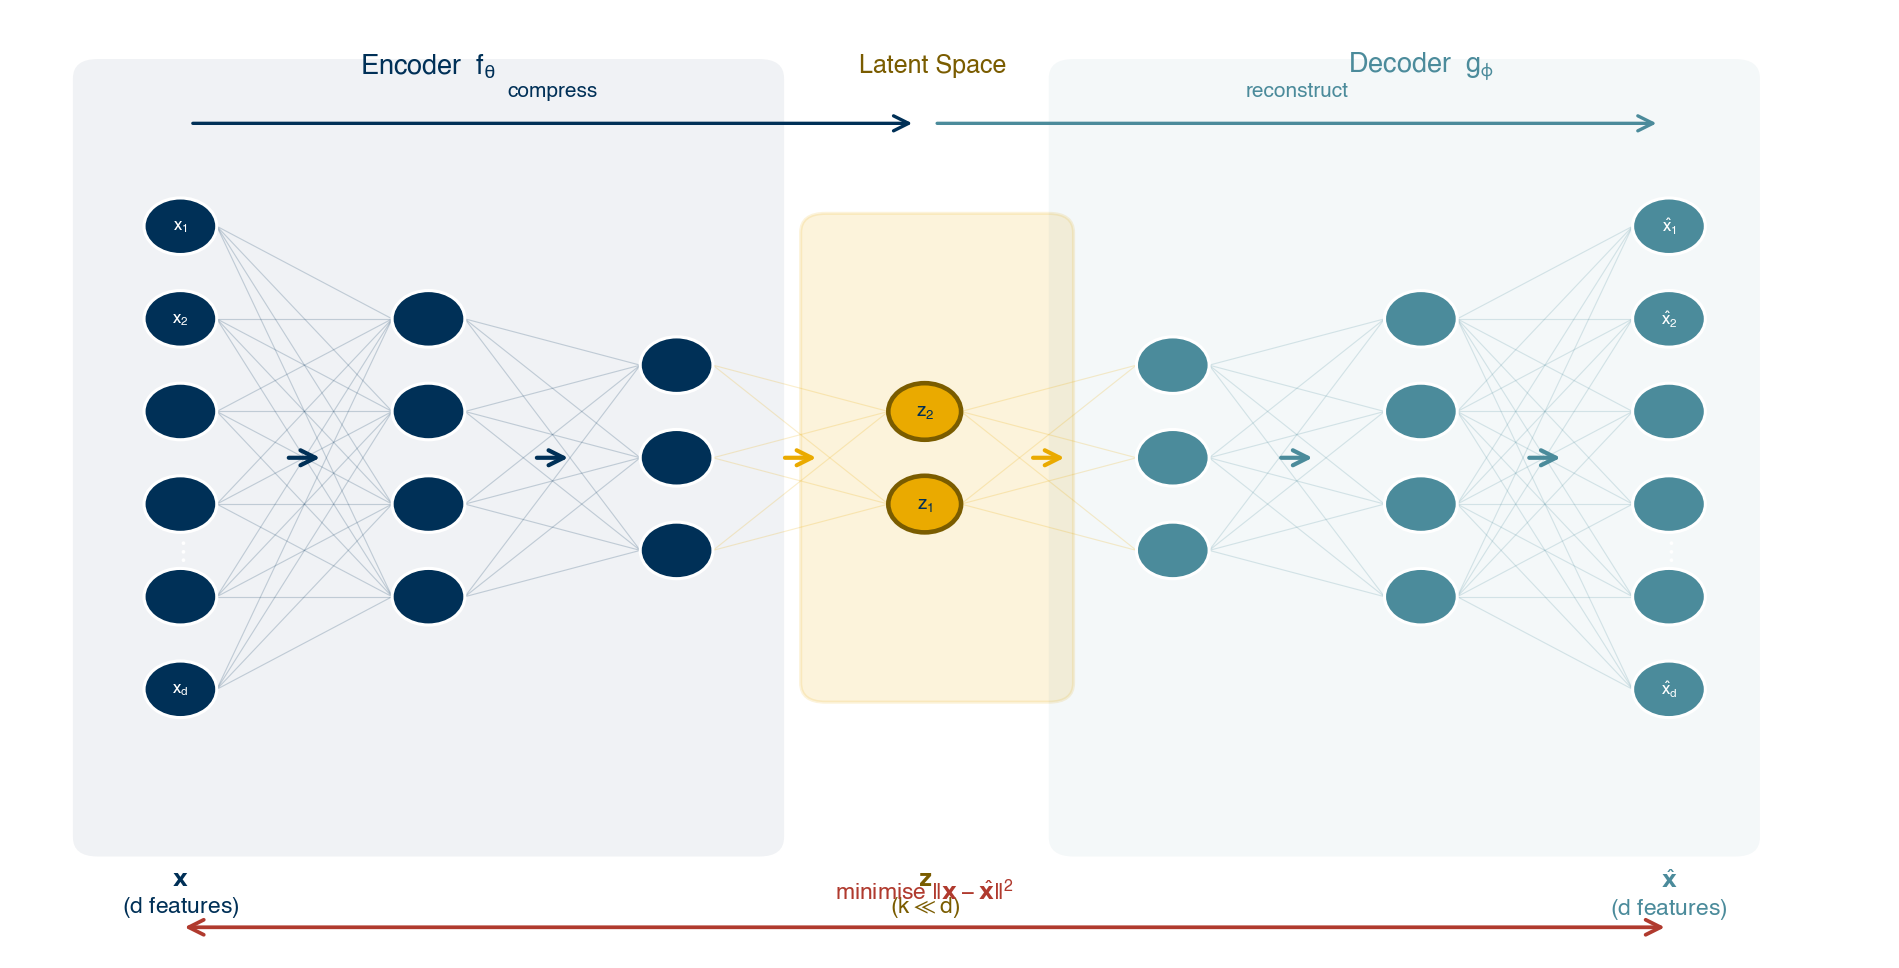
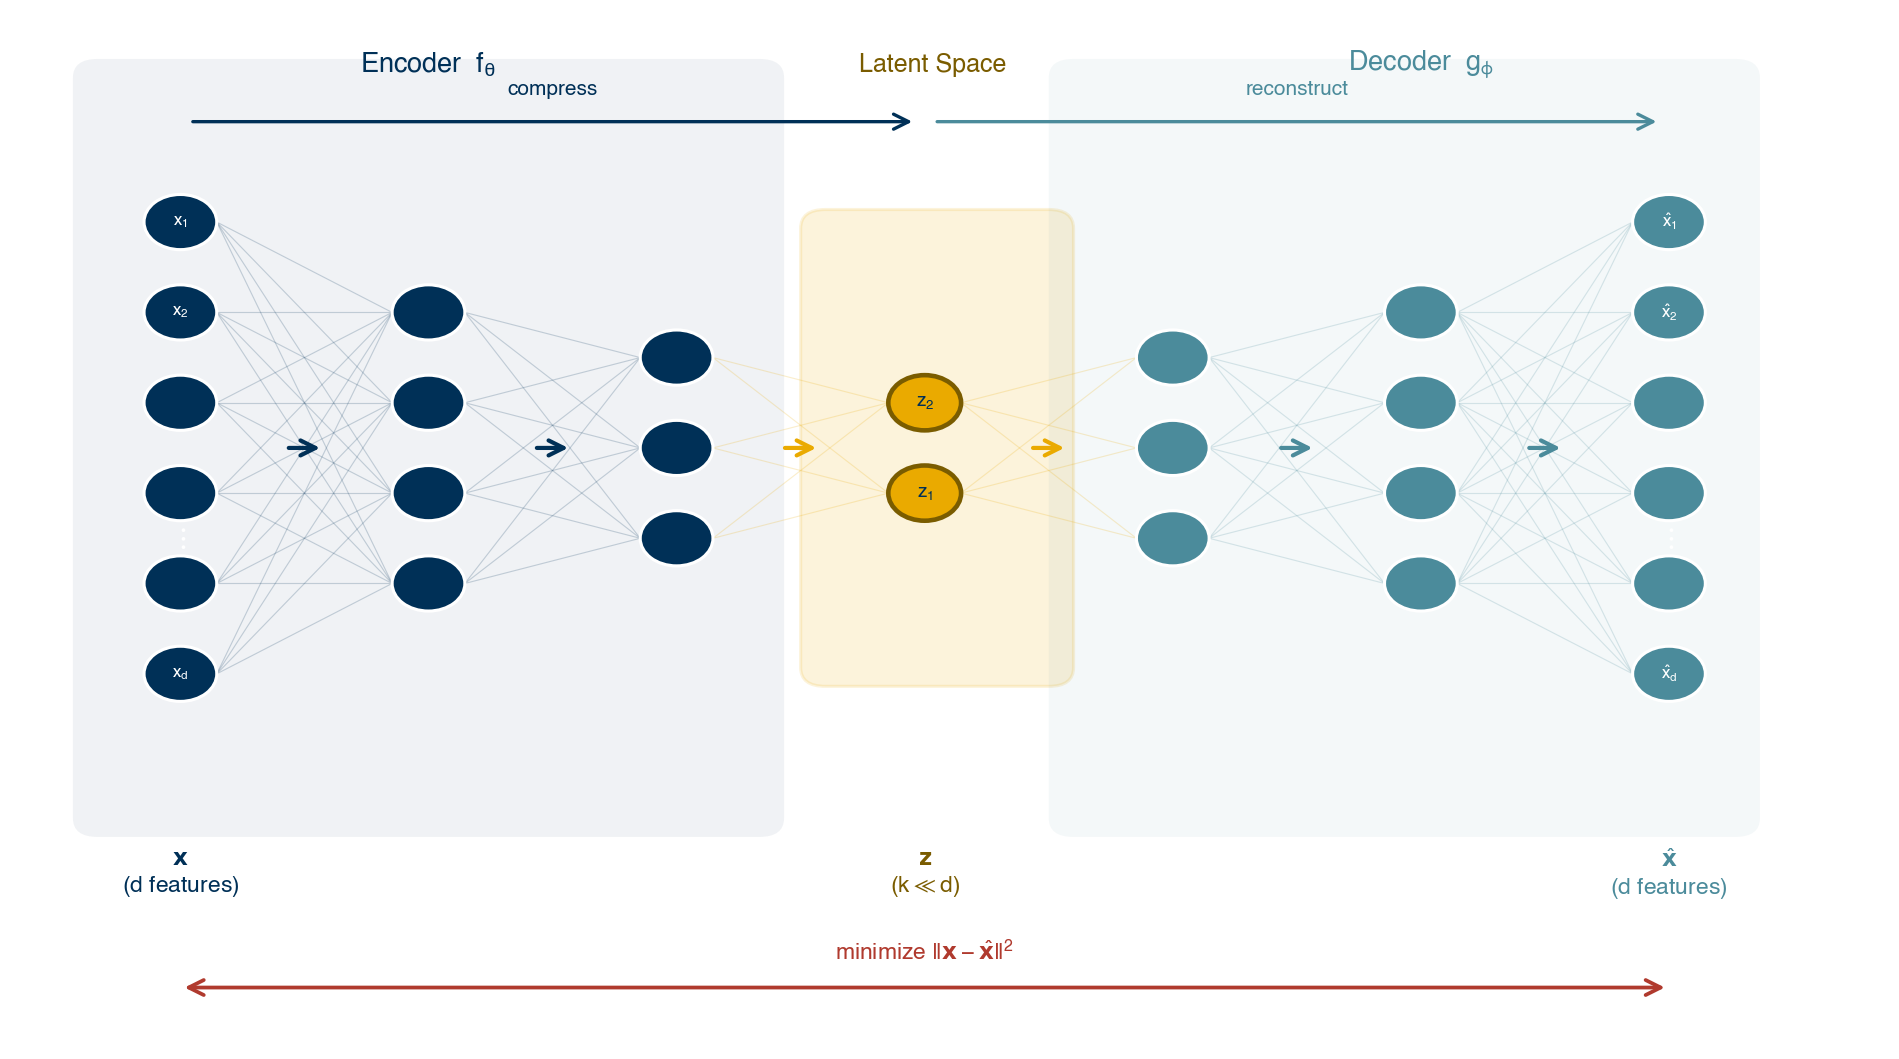
Fix autoencoder figure layout and add PyTorch autoencoder example
- Expanded canvas height and lowered error bracket so "minimize" text
  no longer overlaps the k<<d column label; fix British spelling
  ("minimise" → "minimize") in figure script
- Add three code cells to Topic5.2 autoencoder section: PyTorch model
  definition + training loop, 2-D latent space scatter, reconstruction
  visual; include a note on bottleneck width trade-off

diff --git a/settings/helper_scripts/plot_autoencoder.py b/settings/helper_scripts/plot_autoencoder.py
@@ -55,9 +55,9 @@ def layer_ys(n):
 all_ys = [layer_ys(n) for n in LAYER_SIZES]
 
 # ─── Canvas ───────────────────────────────────────────────────────────────────
-fig, ax = plt.subplots(figsize=(13, 6.8))
+fig, ax = plt.subplots(figsize=(13, 7.4))
 ax.set_xlim(-0.1, 11.2)
-ax.set_ylim(-0.1, 7.2)
+ax.set_ylim(-1.0, 7.2)
 ax.axis('off')
 fig.patch.set_facecolor('white')
 
@@ -169,11 +169,11 @@ ax.text(LAYER_X[6], 0.55, r'$\hat{\mathbf{x}}$' + '\n($d$ features)',
         ha='center', va='top', fontsize=11, color=TEAL, fontweight='bold')
 
 # ─── Reconstruction error bracket ─────────────────────────────────────────────
-err_y = 0.10
+err_y = -0.55
 ax.annotate('', xy=(LAYER_X[6], err_y), xytext=(LAYER_X[0], err_y),
             arrowprops=dict(arrowstyle='<->', color=RED, lw=1.8))
 ax.text((LAYER_X[0] + LAYER_X[6]) / 2, err_y + 0.18,
-        r'minimise $\|\mathbf{x} - \hat{\mathbf{x}}\|^2$',
+        r'minimize $\|\mathbf{x} - \hat{\mathbf{x}}\|^2$',
         ha='center', va='bottom', fontsize=11, color=RED, style='italic')
 
 # ─── Save ─────────────────────────────────────────────────────────────────────

diff --git a/5-exploratory_data_analysis/Topic5.2-Dimensionality_Reduction.md b/5-exploratory_data_analysis/Topic5.2-Dimensionality_Reduction.md
@@ -647,6 +647,98 @@ Training minimizes the reconstruction error $\|\mathbf{x} - \hat{\mathbf{x}}\|^2
 
 Autoencoders are an active research area. Specialized variants — variational autoencoders (VAEs) and denoising autoencoders — are used in generative modeling, anomaly detection, and representation learning. We revisit this topic in the Generative Models chapter.
 
+The following example builds a simple autoencoder on the MNIST digits dataset using PyTorch. The encoder compresses 64 pixel values to a 2-dimensional latent space; the decoder reconstructs the image from that 2-D code.
+
+```{code-cell} ipython3
+import torch
+import torch.nn as nn
+from torch.utils.data import DataLoader, TensorDataset
+
+# ── Data ──────────────────────────────────────────────────────────────────────
+X_tensor = torch.tensor(X_mnist / 16.0, dtype=torch.float32)   # scale to [0, 1]
+dataset   = TensorDataset(X_tensor)
+loader    = DataLoader(dataset, batch_size=128, shuffle=True)
+
+# ── Model ─────────────────────────────────────────────────────────────────────
+class Autoencoder(nn.Module):
+    def __init__(self, input_dim=64, latent_dim=2):
+        super().__init__()
+        self.encoder = nn.Sequential(
+            nn.Linear(input_dim, 32), nn.ReLU(),
+            nn.Linear(32, 16),        nn.ReLU(),
+            nn.Linear(16, latent_dim)
+        )
+        self.decoder = nn.Sequential(
+            nn.Linear(latent_dim, 16), nn.ReLU(),
+            nn.Linear(16, 32),         nn.ReLU(),
+            nn.Linear(32, input_dim),  nn.Sigmoid()
+        )
+
+    def forward(self, x):
+        z    = self.encoder(x)
+        x_hat = self.decoder(z)
+        return x_hat, z
+
+model     = Autoencoder(input_dim=64, latent_dim=2)
+optimizer = torch.optim.Adam(model.parameters(), lr=1e-3)
+criterion = nn.MSELoss()
+
+# ── Training loop ─────────────────────────────────────────────────────────────
+for epoch in range(30):
+    total_loss = 0.0
+    for (batch,) in loader:
+        x_hat, _ = model(batch)
+        loss = criterion(x_hat, batch)
+        optimizer.zero_grad()
+        loss.backward()
+        optimizer.step()
+        total_loss += loss.item() * len(batch)
+    if (epoch + 1) % 10 == 0:
+        print(f"Epoch {epoch + 1:3d}  loss = {total_loss / len(dataset):.5f}")
+```
+
+```{code-cell} ipython3
+# ── Visualize the 2-D latent space ────────────────────────────────────────────
+model.eval()
+with torch.no_grad():
+    _, Z = model(X_tensor)
+Z = Z.numpy()
+
+fig, ax = plt.subplots(figsize=(6, 5))
+sc = ax.scatter(Z[:, 0], Z[:, 1], c=y_mnist, cmap='tab10', s=8, alpha=0.6)
+fig.colorbar(sc, ax=ax, label='Digit')
+ax.set_xlabel('Latent dimension 1')
+ax.set_ylabel('Latent dimension 2')
+ax.set_title('Autoencoder — 2-D latent space (MNIST digits)')
+plt.tight_layout()
+```
+
+```{code-cell} ipython3
+# ── Inspect a reconstruction ──────────────────────────────────────────────────
+n_show = 8
+fig, axes = plt.subplots(2, n_show, figsize=(12, 3))
+model.eval()
+with torch.no_grad():
+    x_hat_all, _ = model(X_tensor)
+
+for i in range(n_show):
+    axes[0, i].imshow(X_tensor[i].numpy().reshape(8, 8),
+                      cmap='binary', vmin=0, vmax=1)
+    axes[1, i].imshow(x_hat_all[i].numpy().reshape(8, 8),
+                      cmap='binary', vmin=0, vmax=1)
+    axes[0, i].axis('off')
+    axes[1, i].axis('off')
+
+axes[0, 0].set_title('Original', loc='left', fontsize=10)
+axes[1, 0].set_title('Reconstructed', loc='left', fontsize=10)
+plt.suptitle('Autoencoder reconstructions (latent dim = 2)', y=1.02)
+plt.tight_layout()
+```
+
+:::{note}
+With only 2 latent dimensions the reconstructions are blurry — the bottleneck is very tight. Increasing `latent_dim` to 8 or 16 produces sharper results at the cost of a less compact representation. The trade-off between reconstruction quality and compression is the central design decision when sizing the bottleneck.
+:::
+
 :::{exercise}
 :label: ex-eda-autoencoder-design
 
